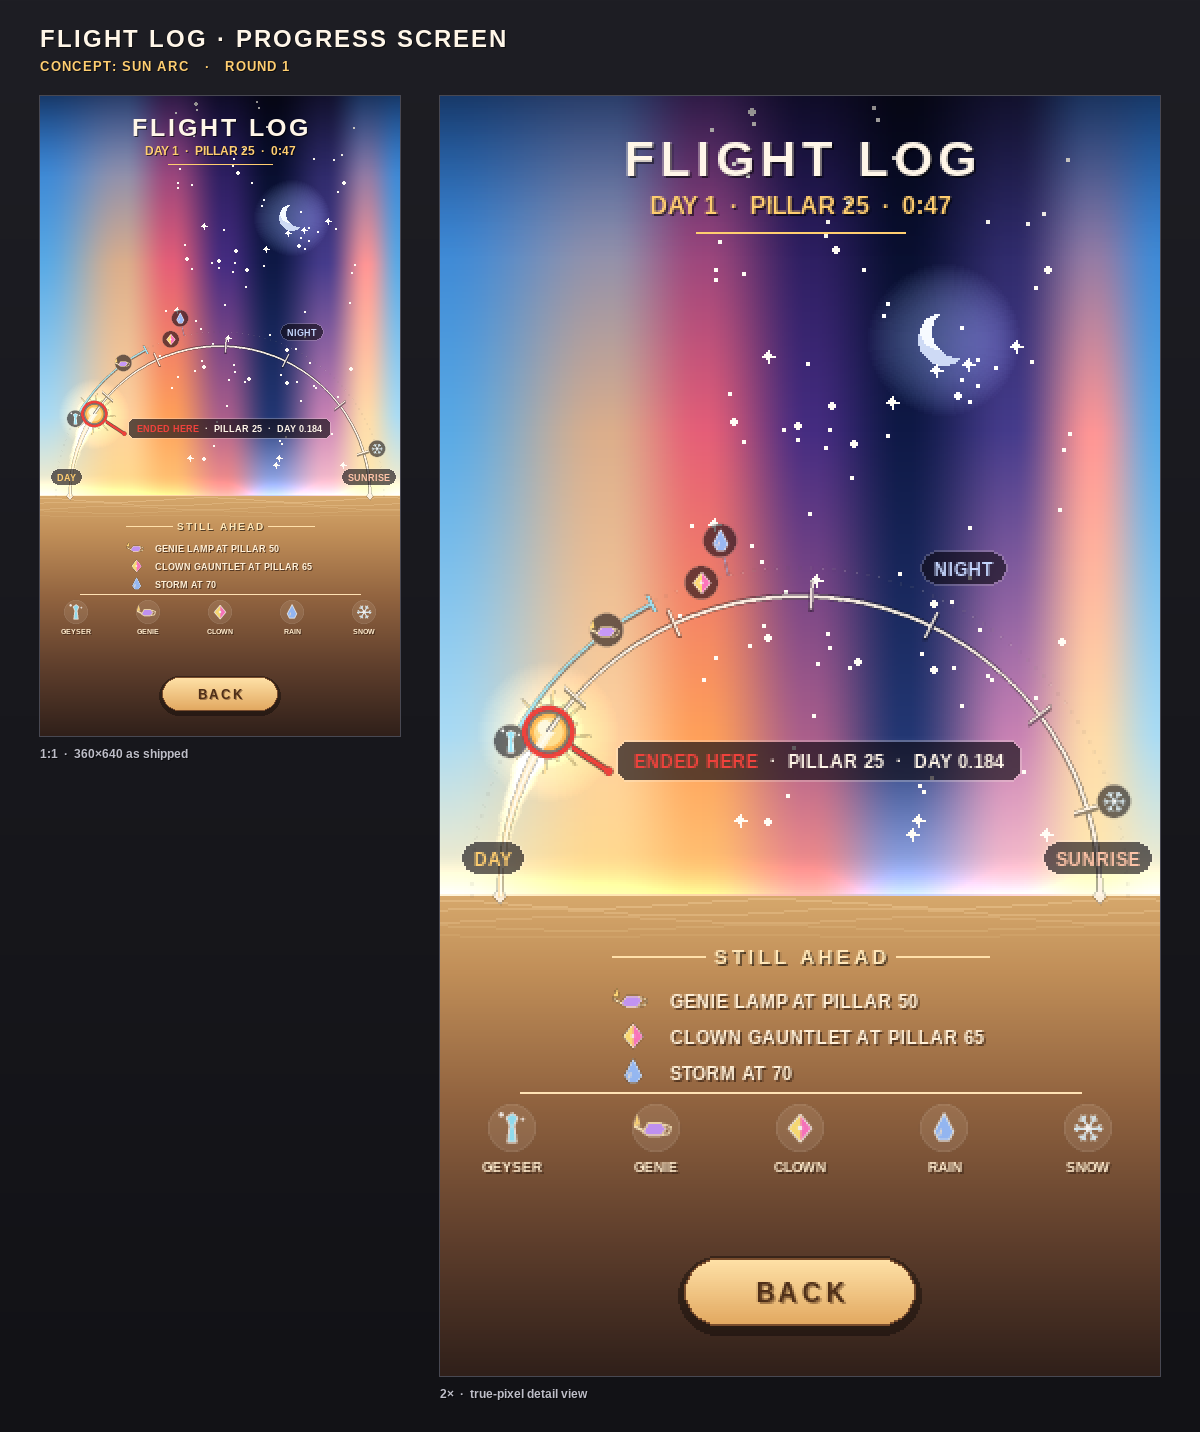
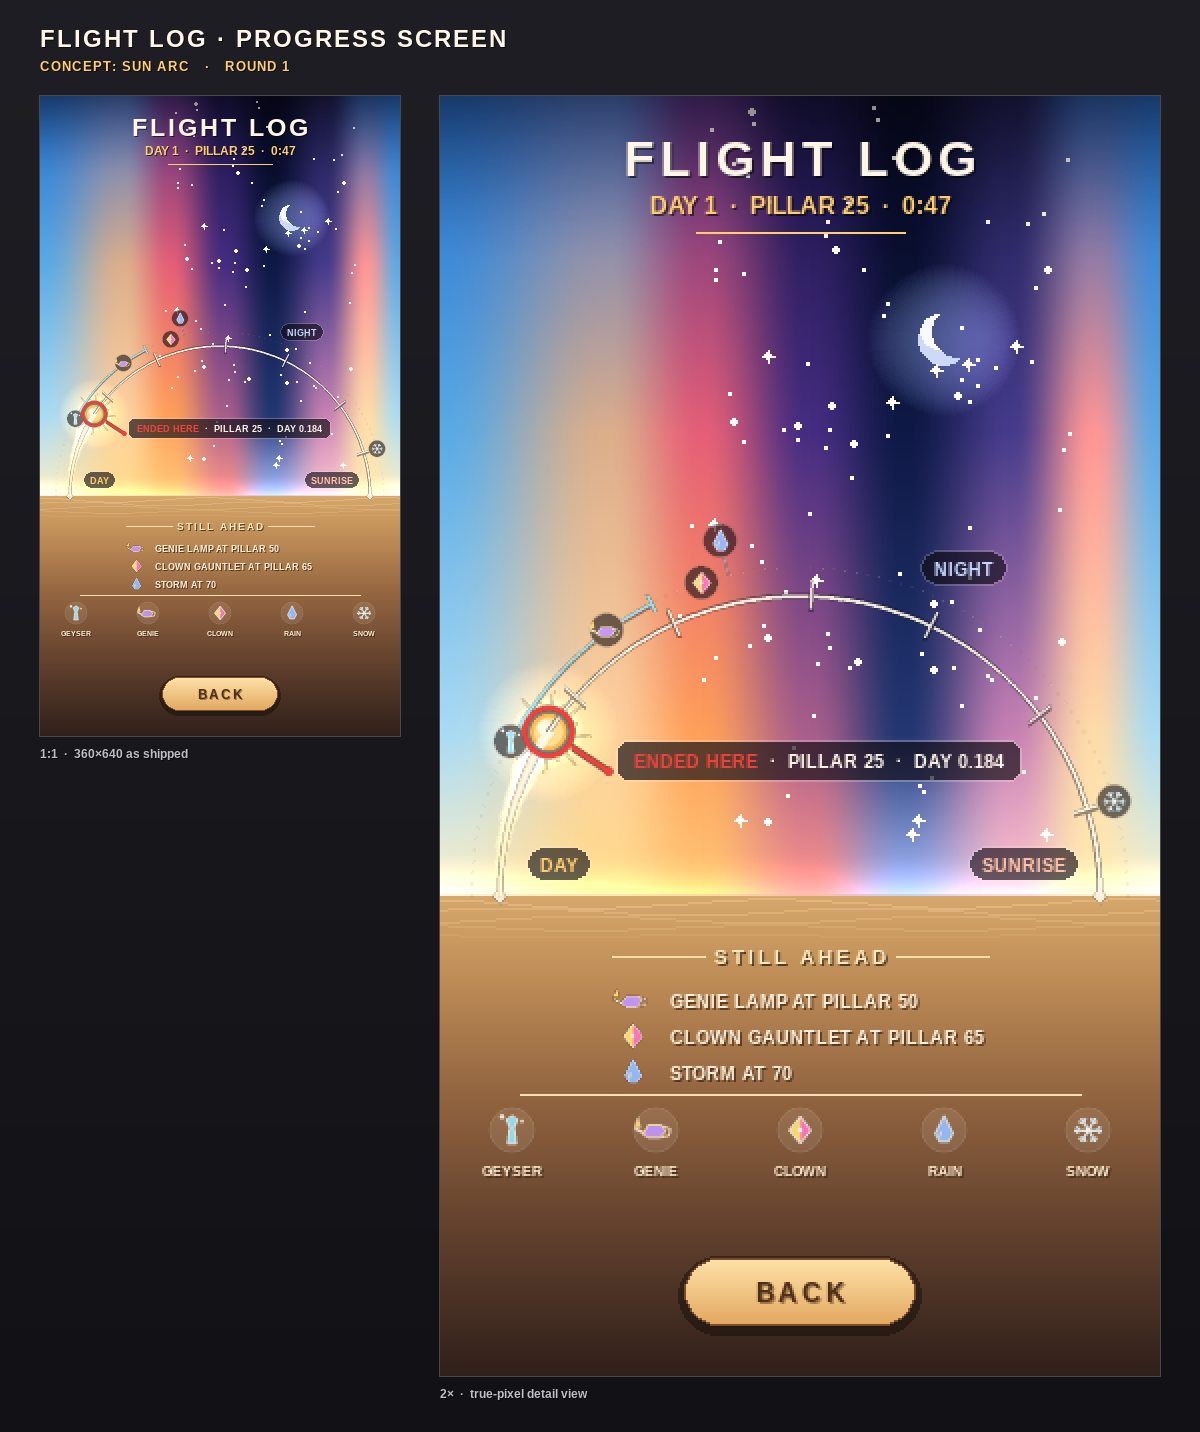
Flight Log progress — sun_arc concept round 1
Claude-Session: https://claude.ai/code/session_01WbuBifdZt4BCNxLahVmLG9

diff --git a/tools/render_flight_log_progress_sun_arc.py b/tools/render_flight_log_progress_sun_arc.py
@@ -30,7 +30,7 @@ pygame.display.set_mode((1, 1))
 from game.weather import THERMAL_START_PHASE, THERMAL_END_PHASE, SNOW_STORM_CENTER
 from game.config import LATE_GAME_PILLAR, CLOWN_START_PILLAR, RAIN_START_PILLAR
 from game.biome import PHASE_BOUNDARIES, palette_for_phase
-from game.draw import lerp_color, lerp_color_multi, make_glow_surface
+from game.draw import lerp_color, lerp_color_multi
 
 W, H = 360, 640
 CX, CY, R = 180, 400, 150
@@ -52,8 +52,6 @@ def font(size):
 IVORY = (255, 246, 232)
 GOLD = (255, 206, 112)
 SCARLET = (240, 66, 60)
-EMBER = (255, 148, 96)
-INK = (16, 12, 20)
 
 GEYSER_C = (146, 232, 255)
 GENIE_C = (196, 150, 255)
@@ -512,9 +510,9 @@ def render_screen():
         fn(ss, gx * k, (452 + i * 18) * k, 6.2 * k, col)
     for i, (fn, _name, col) in enumerate(GLYPHS):
         cx = 36 + i * 72
-        pygame.draw.circle(ss, (255, 246, 232, 26), (int(cx * k), int(516 * k)), int(12.5 * k))
-        pygame.draw.circle(ss, (255, 246, 232, 46), (int(cx * k), int(516 * k)), int(12.5 * k), int(1.0 * k))
-        fn(ss, cx * k, 516 * k, 7.0 * k, col)
+        pygame.draw.circle(ss, (255, 246, 232, 26), (int(cx * k), int(517 * k)), int(11.8 * k))
+        pygame.draw.circle(ss, (255, 246, 232, 46), (int(cx * k), int(517 * k)), int(11.8 * k), int(1.0 * k))
+        fn(ss, cx * k, 517 * k, 6.8 * k, col)
 
     surf.blit(pygame.transform.smoothscale(ss, (W, H)), (0, 0))
 
@@ -525,20 +523,26 @@ def render_screen():
     pygame.draw.line(surf, (255, 206, 112, 90), (128, 68), (232, 68), 1)
 
     # Phase name labels — three only, all horizontal, chipped so they stay
-    # legible where they cross the guide line.
-    def phase_chip(label, cx, cy, col=IVORY):
+    # legible against a fully saturated dome. NIGHT sits outside the arc in
+    # open sky; the two horizon labels sit just inside it, because a 40px-wide
+    # horizontal word cannot clear a 150px arc that meets the horizon only
+    # 30px from the canvas edge — outside there, the chip would eat the arc's
+    # own terminal.
+    def phase_chip(label, cy, col=IVORY, center=None, left=None, right=None):
         f = font(9)
-        w = f.size(label)[0] + 14
-        r = pygame.Rect(0, 0, w, 18)
-        r.center = (cx, cy)
-        r.clamp_ip(pygame.Rect(3, 0, W - 6, H))
-        chip(surf, r, radius=9, alpha=160)
+        r = pygame.Rect(0, 0, f.size(label)[0] + 14, 18)
+        if center:
+            r.center = (center, cy)
+        elif left:
+            r.midleft = (left, cy)
+        else:
+            r.midright = (right, cy)
+        chip(surf, r, radius=9, alpha=162)
         text(surf, label, 9, center=r.center, color=col, shadow=None)
-        return r
 
-    phase_chip("DAY", 26, 381, GOLD)
-    phase_chip("NIGHT", 262, 236, (198, 216, 255))
-    phase_chip("SUNRISE", 330, 381, (255, 196, 168))
+    phase_chip("DAY", 384, GOLD, left=43)
+    phase_chip("NIGHT", 236, (198, 216, 255), center=262)
+    phase_chip("SUNRISE", 384, (255, 196, 168), right=320)
 
     # Death callout, hung off the inward spur into the ahead sector.
     f = font(9)
@@ -562,9 +566,9 @@ def render_screen():
     for i, (_fn, col, t) in enumerate(rows):
         text(surf, t, 9, midleft=(tx, 452 + i * 18), color=(255, 240, 216), shadow=(40, 22, 12, 160))
 
-    pygame.draw.line(surf, (255, 226, 180, 70), (40, 498), (320, 498), 1)
+    pygame.draw.line(surf, (255, 226, 180, 70), (40, 499), (320, 499), 1)
     for i, (_fn, name, _c) in enumerate(GLYPHS):
-        text(surf, name, 7, center=(36 + i * 72, 535), color=(255, 236, 206),
+        text(surf, name, 7, center=(36 + i * 72, 537), color=(255, 236, 206),
              shadow=(38, 22, 12, 150))
 
     # BACK pill
